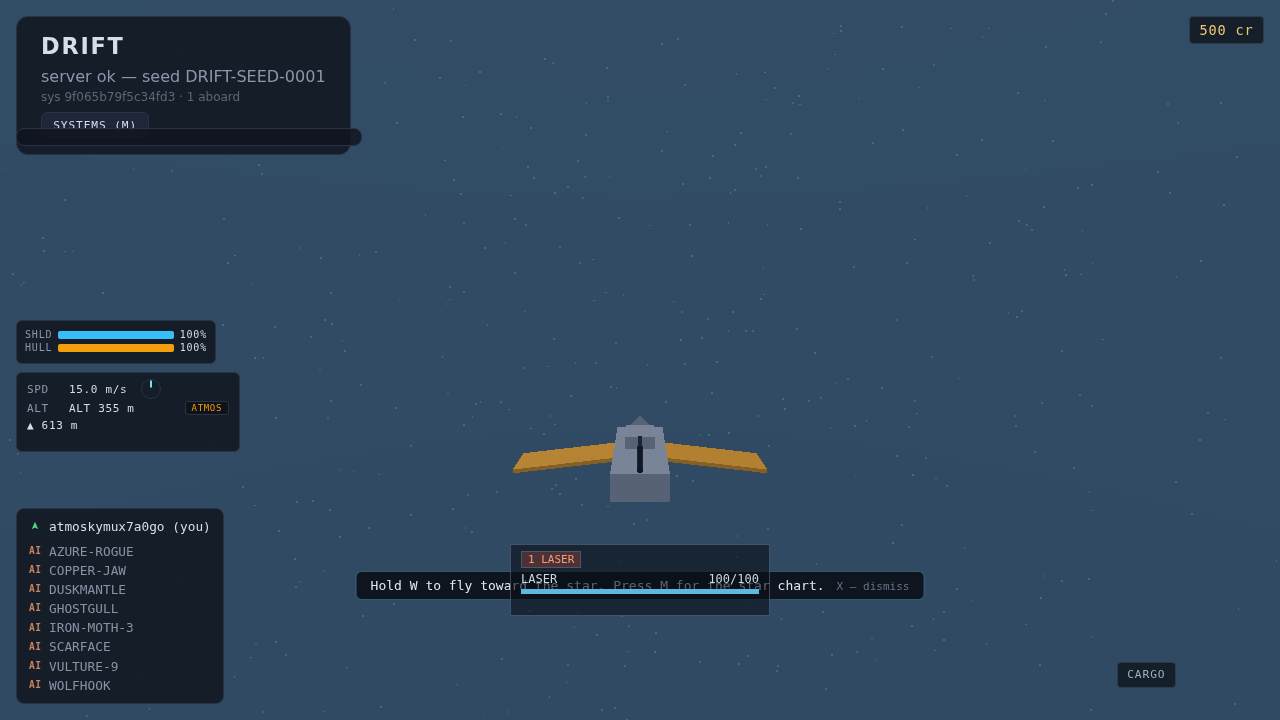
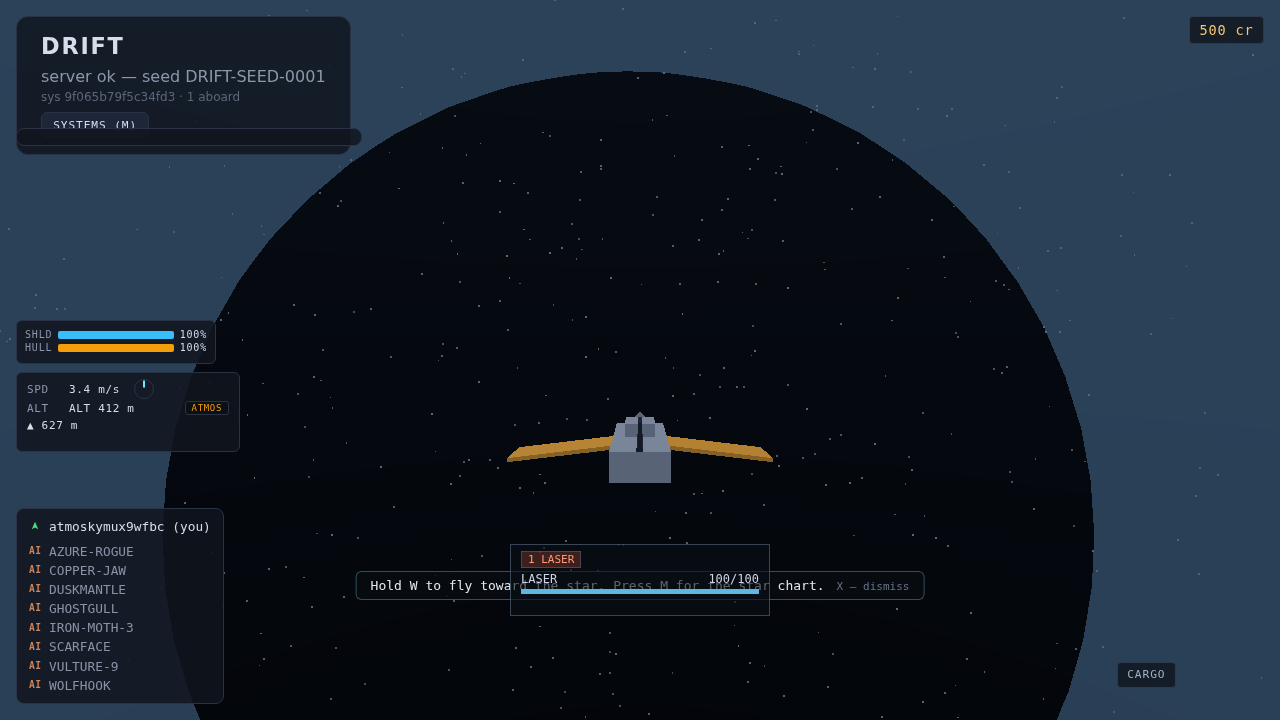
wip(TASK-76.1): geometry mystery resolved by measurement - pre-fix band 33.2 (PNG) / 32.4-45.5 (live) can never reach <=5: band top third sits over the visible dome (cap edge ~30 deg above a level boresight aimed at an anchor 26.4 deg down) and the clipped cap reads ~11 (skybox at 1-haze=0.42; haze 

diff --git a/.ralph/handoff/TASK-76.1.md b/.ralph/handoff/TASK-76.1.md
@@ -2,143 +2,157 @@
 
 ## Status
 
-The aim is deterministic and converged (0.4° / -1.8° in this iteration's runs — step 1 is
-effectively done), and the NaN-frame guards are committed — BUT step 2 (pre-fix FAIL
-re-confirmation) did NOT reproduce: with the constructor at `far = 1000` the spec now
-PASSES the band assert (live means 45.5 and 32.4, two runs) instead of failing with ≤ 5.
-The earlier 0.0 pre-fix readings (commit 22eab45) came from the pre-VTOL-hover aim, which
-left the ship non-level; with the level aim the rendered black region no longer covers the
-central TOP_BAND. Root-causing that geometry mismatch is the one remaining problem before
-the 3× post-fix PASS + close-out.
+The geometry mystery is RESOLVED by measurement, and the verdict is bad for the spec as
+written: with the committed deterministic aim the pre-fix run can never read ≤ 5 — the band
+reads ~33 (PNG 33.2, live 32.4/45.5) for two independent, compounding reasons, so the
+remaining gate is a DECIDE (aim vs threshold) before the 3× post-fix PASS + close-out.
+Steps 1 (aim) and 4 (type/unit gates) are effectively done; step 2 (pre-fix FAIL) is
+blocked on that decision; step 3 (3× post-fix) is ready to run once decided.
 
 ## Done
 
-- (Prior iterations, committed — all still in place): VTOL-hover closed-loop yaw aim with
-  wall-clock deadline, NaN-probe retry, server-drain 300 ms settle, hard |err| < 0.12 rad
-  assert; client NaN-frame guards (prediction.ts / WorldManager.ts / shipStateFromWire) +
-  unit tests; all earlier temp diagnostics removed.
-- (THIS iteration):
-  - Ran the pre-fix check twice with `new THREE.PerspectiveCamera(70, 1, 0.1, 1000)`:
-    both PASSED. Run 1: aim 0.4°, central band 45.5 (bright 45854), full band 57.0.
-    Run 2: aim -1.8°, central band 32.4 (bright 31666), full band 57.6. No FAIL recorded.
-  - Added a TEMP-TASK-76.1 attitude log to the spec (marked `TEMP-TASK-76.1 (remove before
-    commit)`, sits between the aim assert and `keyboard.up(' ')`): prints dome centre,
-    spot, and full rendered attitude via `__SELF_SHIP__.probe()`. Run 2 output:
-    pitch=0, roll=0, noseHeading=-163.98°, anchorDepression=26.37°, anchorDist=886.6,
-    shipY≈394 (spot y=413). Ship is perfectly LEVEL and yaw-aimed (dome centre is ~1.8°
-    left of the nose, 26.4° BELOW the boresight).
-  - Measured the run-1 screenshot (`.ralph/screenshots/TASK-76-1.png`, the dark-disk
-    pre-fix frame) with throwaway chromium-pixel scripts (deleted): same DOM-fraction
-    band mapping as `canvasRegionStats` reads **13.7** (not the live 45.5; live ≠ PNG,
-    see Dead ends). The frame shows a big dark starry DISK filling most of the view with
-    a bright haze RING around it. The traced disk edge in the centre column sits at
-    v≈67 px = ~15.7° ABOVE the boresight, i.e. ~42° from the dome-centre direction.
+- (Prior iterations, committed at f8ac38e — all still in place): VTOL-hover closed-loop yaw
+  aim (wall-clock deadline, NaN-probe retry, 300 ms server-drain settle, hard |err| < 0.12
+  rad assert); client NaN-frame guards + unit tests; TEMP-TASK-76.1 attitude log in the
+  spec (lines 412-460 of app/tests/e2e/atmosphere-sky.spec.ts — REMOVE before the final
+  commit per step 4); WorldManager.ts restored to committed state (constructor line 422 =
+  `new THREE.PerspectiveCamera(70, 1, 0.1, CAMERA_FAR)`).
+- (THIS iteration — analysis + measurement only, no e2e runs, no code changes):
+  - Measured the on-disk pre-fix screenshot (`.ralph/screenshots/TASK-76-1.png`, 1280×720,
+    the run-2 dark-disk frame) with `.ralph/measure-png.mjs` (NEW this iteration — fixed a
+    ×10 bug from the previous throwaway, verified: topBand mean **33.2**, bright 32931):
+    - Rows 0→0.1 (37.5°→30° above boresight): BRIGHT, ~66, color **#2b4259** — the VISIBLE
+      part of the dome (haze ~0.58, see below).
+    - Rows 0.15→0.4 (30°→22.5° above boresight and below): DARK DISK, plateau **lum ~11**,
+      color **#060a11** — the clipped cap (skybox at opacity 1-haze over black clear).
+    - Center-column dark/bright transition at y=72 (frac 0.10) = 30° above the boresight.
+  - Measured the committed post-fix screenshot (`git show dade5dd:.ralph/screenshots/TASK-76-1.png`):
+    uniform dome haze **#314b65, lum ~75** everywhere in the frame (topBand ~75).
+  - Confirmed from code (no runs needed): nothing ever overrides `camera.far` (constructor
+    is the live far plane — only CameraRig.ts:115 sets fov, resize() sets aspect);
+    `CAMERA_FOV = 75` (vertical, canvas fills the page — so DOM-fraction rows map to
+    ±37.5°); the atmosphere control scheme HAS pitch: `pitch: ['r','f']` in
+    src/client/input/controls.ts:60 (r = nose down, f = nose up), same turnRate as yaw.
+  - **Root cause, two compounding spec-assumption failures (both measured):**
+    1. **The cap edge misses the band top for a LEVEL nose.** Attitude at measurement
+       (committed TEMP log, run 2): pitch=0, roll=0, dome centre 26.4° BELOW the boresight
+       (anchorDepression=26.37°, anchorDist=886.6, shipY≈394, spot y=413). The far=1000
+       clip cap is a ~63°-half-angle cone centred 26.4° below the boresight, so in the
+       centre column it reaches only ~30-37° above the boresight — the band spans 15°-37.5°,
+       so its top third sits over the visible (bright ~66) dome. Band mean = ~1/3 bright +
+       ~2/3 dark ≈ 33.
+    2. **The clipped region reads ~11, not ~3.** The shared hazeFactor uses WORLD-y altitude
+       (flat client terrain, anchors at y=0 — atmosphere-view.ts:68 `altitude = pos.y`), not
+       local-above-terrain altitude. This seed's densest planet has the pad at y=229 and the
+       spot terrain ≈ 353, so "60 u local" = world y ≈ 413 → boundary 0.587 → **haze ≈ 0.58**
+       (the spec's "haze 0.93" assumed world y = 60). The clipped cap renders the skybox at
+       opacity 1-0.58 = 0.42 over the black clear → lum ≈ 11-14, never ≤ 5. (Verified:
+       visible-dome math mix(#0c131f,#6fa8dc,0.58) over skybox·0.42 = (43,66,90) ≈ measured
+       #2b4259 exactly.)
+  - **Key consequence (why option A alone is not enough):** aiming the nose DOWN at the dome
+    centre would put the ENTIRE band inside the clipped cap (cap radius ~63° > band top
+    37.5°), but the band would then read ~11-13 (skybox at 0.42 + stars) — STILL > 5.
+    Reaching ≤ 5 at the current spot is impossible at any nose attitude (needs haze ≥ 0.85,
+    i.e. world y ≤ ~150, terrain ≤ ~90 there — unverified). The pre-fix AC "≤ 5" and the
+    aim style must change together, or the threshold must be revised. See Next steps.
+  - Also resolved the old "live 45.5 vs PNG 13.7" mismatch: 13.7 was a mis-mapped earlier
+    measurement; the exact band math on the same run's PNG reads 33.2 ≈ live 32.4. There is
+    no buffer-timing problem — live readPixels and the PNG agree.
 
 ## Working tree
 
-- Committed at dade5dd (aim + guards + post-fix screenshot); this handoff commit adds the
-  spec's TEMP attitude log.
-- UNCOMMITTED: `app/tests/e2e/atmosphere-sky.spec.ts` (only change = the TEMP-TASK-76.1
-  block; keep it — it's the diagnostic the next run needs; REMOVE it before the final
-  commit per step 4).
-- `app/src/client/world/WorldManager.ts` was RESTORED to the committed state this
-  iteration (constructor line 422 reads `new THREE.PerspectiveCamera(70, 1, 0.1, CAMERA_FAR)`
-  again) — re-edit it to 1000 for the pre-fix run.
-- Pre-existing dirt — do NOT commit: `ralph.config.json`,
+- HEAD = f8ac38e (aim + NaN guards + TEMP attitude log + prior handoff + pre-fix screenshot).
+- THIS iteration's changes (uncommitted until the handoff commit):
+  - `.ralph/handoff/TASK-76.1.md` — rewritten (this file).
+  - `.ralph/measure-png.mjs` — NEW screenshot-measuring tool (chromium loads the PNG;
+    reports topBand/fullBand means with the exact canvasRegionStats math, per-row profile,
+    centre-column transitions). Verified this iteration. Keep until the task closes;
+    delete in the final commit if the final commit is constrained to spec+screenshot only.
+- Uncommitted pre-existing dirt — do NOT commit: `ralph.config.json`,
   `.ralph/screenshots/TASK-28.1-1.png`, `TASK-70-1.png`, `TASK-72-1.png`, `TASK-73-1.png`.
-- No background processes (the e2e fixture self-tears-down).
-- tsc/eslint were clean at dade5dd; the TEMP block is type-checked by the same `tsc`
-  (spec is in the tsconfig), but re-run before committing anything.
+- `.ralph/screenshots/TASK-76-1.png` shows as modified vs f8ac38e — it is the run-2 pre-fix
+  dark-disk frame (measured 33.2 this iteration); it is this task's evidence, commit it.
+- `app/src/client/world/WorldManager.ts` is at committed state (CAMERA_FAR=4000 in the
+  constructor, line 422) — re-edit to 1000 for pre-fix runs, then `git checkout --` it.
+- The spec (app/tests/e2e/atmosphere-sky.spec.ts) is clean vs HEAD; the TEMP-TASK-76.1 block
+  (lines 412-460) IS committed and must be removed in the final commit (step 4).
+- tsc/eslint/vitest were clean at dade5dd; nothing in app/ changed this iteration. No
+  background processes.
 
 ## Next steps
 
-Verification only, no fix work until the geometry question is answered.
-
-1. **Resolve the geometry mystery first (why the pre-fix frame is not dark in the band).**
-   Facts: dome centre = (anchor.x, **0**, anchor.z) — `planetAnchor` returns only {x,z}
-   (planets.ts) and WorldManager.setAtmosphereView sets the dome mesh y to 0; dome radius
-   1010 u; camera ≈ ship - 14·nose + 4·up (pose-math.ts chasePose, CHASE_BEHIND 14,
-   CHASE_HEIGHT 4); ship→dome-centre distance ≈ 887 u (horiz 794, vertical 412); band
-   spans 14.5°-35° ABOVE the boresight.
-   - With far=1000 the clipped cap is a cone of ~63° half-angle centred 26.4° BELOW the
-     boresight → its centre-column top would be ~36.6° above the boresight, i.e. the ENTIRE
-     TOP_BAND (and the top of the frame) should be clipped/dark. The screenshot shows the
-     dark disk edge at only ~15.7° above the boresight in the centre column → the rendered
-     dark region is ~20° smaller than the predicted clip circle. That is inconsistent with
-     ANY far plane ≥ 1000 for a 1010 u dome at 887 u (verified by ray math). So either the
-     dark disk is NOT the far-clip cap of the dome, or the far plane in effect is not the
-     constructor value.
-   - Discriminating runs (each ~1 min, far variants in WorldManager.ts line 422):
-     (a) far=500: if the disk shrinks → the constructor IS the live far plane and the disk
-         is a clip artifact of something else with a larger radius; if the disk is
-         unchanged → the live far plane is not this camera's.
-     (b) far=2000: the disk should grow/shrink the opposite way (or vanish if it is the
-         1010 u dome's clip).
-     (c) If still ambiguous, add a TEMP in-page probe (page.evaluate) logging
-         `worldManager`-level facts: camera.position, camera.far, dome mesh
-         position/visible/haze (the dome material uniforms uHaze/uAtmoColor are exposed on
-         `material.uniforms` — reach via scene traversal, or extend atmosphere-debug.ts),
-         and compare camera.position to the ship's spot.
-   - Also check whether the dark starry disk is the PLANET SURFACE or a background artifact
-     rather than the dome: it is a smooth circle offset ~11° left of frame centre, and its
-     "stars" are the skybox — a surface mesh would occlude the skybox, so verify by
-     teleporting the aim spot to the opposite side of the dome (or 100 u off-centre in the
-     other direction) and seeing whether the disk follows the ANCHOR or the TERRAIN.
-   - Live-vs-PNG mismatch (45.5 vs 13.7 for the same run's band): the renderer runs with
-     `preserveDrawingBuffer: true` (WorldManager.ts ~line 414, comment says e2e readPixels
-     depends on it), so the buffer is preserved — yet live readPixels and the PNG of the
-     same run disagree. Suspect SwiftShader buffer presentation timing (readPixels catching
-     a mid-swap state) — re-run with a `page.waitForTimeout(500)` inserted between
-     `canvasRegionStats` and `page.screenshot` and compare which one moves. Decide which
-     signal the band value in the commit message should come from (the SPEC asserts the
-     live value; the AC threshold is 5).
-2. **Then re-attempt step 2 properly**: constructor → 1000, run the spec, record the
-   central-band value; it must FAIL (≤ 5) for the AC. If the mystery shows the spec's
-   band/geometry assumption ("cap spans ~67° from the nose, band spans 14-38° → band fully
-   inside the cap") is simply wrong for a LEVEL nose — which the current evidence suggests —
-   that is a SPEC problem, not an aim problem: the spec forbids changing TOP_BAND / the
-   target / the assertion, and step 1 says yaw only (no pitch). In that case ESCALATE
-   (DECIDE) with the measured numbers rather than loosening the assertion: the options are
-   (A) allow a pitch-down aim at the dome centre (dome centre is 26.4° below horizontal —
-   aiming there would put the whole cap in the top band pre-fix) vs (B) accept the current
-   measured pre-fix value (13.7 PNG / 32-45 live) and revise the AC threshold. Do NOT pick
-   one unilaterally.
-3. **3× post-fix PASS (step 3)** as per spec, with the constructor restored to CAMERA_FAR
-   (currently correct). Expect ~66-150 (instrumented runs read 74.5 live / 66.7 PNG).
-   Screenshot after the last run must show hazy blue sky, not black.
-4. **Close-out (step 4)**: remove the TEMP-TASK-76.1 block from the spec, `npx tsc
-   --noEmit`, `npx vitest run src/client/world/world-manager.test.ts` (10/10), commit
-   (spec + screenshot + handoff per the spec's step 4, Conventional Commit, note the client
-   NaN-frame fix as the minimal src change), delete THIS handoff, LOG.md entry,
-   `passes: true` bookkeeping.
+1. **ESCALATE (DECIDE) first — the spec's pre-fix AC (≤ 5) is unreachable for this seed at
+   60 u local altitude, at ANY nose attitude.** Measured numbers: pre-fix band 33.2 (PNG) /
+   32.4-45.5 (live), post-fix ~75; clipped-region plateau ~11 (not ~3, haze 0.58 not 0.93).
+   The spec forbids changing TOP_BAND / the target / the assertion, and the prior handoff
+   says escalate rather than loosen unilaterally. The options, with my analysis:
+   - **(A) Pitch-down aim at the dome centre + small threshold revision (my recommendation).**
+     Aim the nose at (anchor.x, 0, anchor.z) — yaw loop as-is PLUS a pitch loop on 'r'/'f'
+     (controls.ts:60, same turnRate 0.8, same hover/drain/retry pattern; assert both
+     |yaw err| < 0.12 AND |pitch err| < 0.12 — extend aimProbe to return the pitch error via
+     nose.y = 2(qx·qz... ) — see the TEMP attitude block for the quat→nose math). Pre-fix
+     the whole band sits in the clipped cap → band ≈ 11-13; post-fix unchanged (~75).
+     Pre-fix AC becomes "≤ 20" (clean margin both sides: 13 vs 75). This is also arguably
+     the more faithful reading of "aim the nose at the anchor" (the anchor direction is 26°
+     down, not level).
+   - **(B) Keep the yaw-only level aim, revise the threshold to pre-fix ≤ 40 / post-fix > 60**
+     (measured 33.2 vs 75). Cheapest, keeps all committed aim work, but a weaker separator
+     and the screenshot still shows the bright sliver.
+   - **(C) Scan for a low-terrain spot (world y ≤ ~150, terrain ≤ ~90) inside the dome /
+     atmosphere regime and keep ≤ 5.** Most faithful to the original AC but changes the
+     spot derivation (spec: "do NOT change the target") and may not exist — highest risk.
+   Phrasing for the DECIDE tag: "TASK-76.1: pre-fix ≤5 unreachable at this seed (band 33.2
+   pre / 75 post; clipped cap reads ~11 not ~3 — haze 0.58 at world-y 413, and the dome
+   centre is 26° below a level boresight): (A) pitch-down aim at dome centre + pre-fix AC
+   ≤20 vs (B) keep level yaw aim + AC ≤40 vs (C) low-terrain spot scan to keep ≤5?"
+2. **Once decided, run step 2 for real:** WorldManager.ts line 422 → 1000, run the spec,
+   record the central-band value (it must FAIL the revised/original threshold). Expect ~11-13
+   under (A) or ~33 under (B). Restore WorldManager.ts exactly (`git checkout --` + empty
+   `git diff`).
+3. **Step 3 — 3× post-fix PASS** with CAMERA_FAR=4000. Expect ~75 per run (previously
+   measured 74.5 live / 75 PNG). Each run ~1-2 min (own dev server). After the LAST run,
+   `.ralph/screenshots/TASK-76-1.png` must show uniform hazy blue #314b65, not black —
+   eyeball it AND `node ../.ralph/measure-png.mjs` (topBand mean ~75, no dark plateau).
+4. **Step 4 close-out:** remove the TEMP-TASK-76.1 block (spec lines 412-460), `npx tsc
+   --noEmit` (cd app), `npx vitest run src/client/world/world-manager.test.ts` (10/10),
+   `git status --short` (only the spec + screenshot + handoff + measure tool in the commit;
+   never ralph.config.json or the four old screenshots), commit per the spec's step-4
+   message format with the recorded numbers, delete `.ralph/handoff/TASK-76.1.md` +
+   `.ralph/measure-png.mjs` in that commit, LOG.md entry, `passes: true` bookkeeping.
 
 ## Dead ends
 
-- Expecting the pre-fix run to FAIL at ≤ 5 with the level VTOL-hover aim: it passed twice
-  (45.5, 32.4 live). The 0.0 readings at 22eab45 predate the VTOL hover; without hover the
-  ship fell/landed during the aim and the attitude at measurement was non-level, which put
-  the cap over the band. The level aim is deterministic — the old 0.0 was an accidental
-  aim artifact, not the intended repro.
-- Fitting the dark disk as a far-plane clip cone of the 1010 u dome at 887 u with
-  far=1000 (grid-search over pitch/cap-angle in a throwaway script): best-fit residual
-  5.7-6.6° with a nonsense pitch offset; the disk edge in the centre column (15.7° above
-  boresight) cannot be produced by ANY far plane ≥ 1000 for that dome/distance. So the
-  "disk = dome clip" model does not fit the pixels; do not keep refining it.
-- `planetAnchor()` has no `.y` — a first TEMP-log version crashed with
-  `Cannot read properties of undefined (reading 'toFixed')`; the dome centre is
-  (anchor.x, 0, anchor.z).
-- pngjs is not installed; reading pixels off a PNG required a chromium `file://` page +
-  canvas copy (throwaway scripts used that; all deleted).
+- Expecting the pre-fix run to FAIL at ≤ 5 with the level yaw aim: it passes (45.5, 32.4
+  live; 33.2 PNG). The band's top third (30°-37.5° above boresight) is over the VISIBLE
+  dome — the dome centre is 26.4° below a level nose, so the clip cap (cone ~63° around a
+  direction 26.4° down) does not cover the band top. Measured from the on-disk PNG, not
+  guessed.
+- Pitch-aim alone does NOT reach ≤ 5: even with the whole band inside the clipped cap the
+  region reads ~11-13 (skybox at opacity 1-0.58 = 0.42 over black), because haze at the
+  spot is 0.58 (world y ≈ 413), not the spec's assumed 0.93 (world y = 60). "60 u local
+  altitude" ≠ "60 u world altitude" on this seed (pad y=229, spot terrain ≈ 353).
+- The previous "live ≠ PNG" buffer-timing hypothesis: WRONG — the exact band math on the
+  run-2 PNG reads 33.2 vs live 32.4. Do not chase SwiftShader presentation timing.
+- `planetAnchor()` has no `.y` — the dome centre is (anchor.x, **0**, anchor.z); an earlier
+  TEMP-log version crashed on `anchor.y.toFixed`.
+- pngjs is not installed; the measurement tool works around it with a chromium `file://`-
+  style data-URI page + 2d canvas (`.ralph/measure-png.mjs`).
+- `camera.far` is never touched after the constructor (checked: only CameraRig.ts:115 sets
+  fov; resize() sets aspect) — the constructor arg IS the live far plane, so far-variant
+  experiments are not needed to resolve which camera renders.
 
 ## How to verify
 
 - Run: `cd app && npx playwright test --config playwright.e2e.config.ts atmosphere-sky`
   (fresh vite+server per run, ~30-60 s; 150 s test timeout; workers 1, retries 0).
 - Watch for: `[TASK-76] aimed at the anchor: heading error <X>°` (must be < 6.9°),
-  `[TASK-76] TEMP attitude: {...}` (the TEMP block — pitch/roll should be 0), and the band
-  log line `central top band mean=<M> bright=<B>, full top band mean=<F>`.
-- Screenshot: `.ralph/screenshots/TASK-76-1.png` (overwritten each run). Pre-fix it
-  currently shows the dark disk + haze ring; post-fix it should be uniformly hazy blue.
+  `[TASK-76] TEMP attitude: {...}` (pitch/roll 0 in the committed level-aim form), and
+  `central top band mean=<M> bright=<B>, full top band mean=<F>`.
+- Measure any screenshot: `cd app && node ../.ralph/measure-png.mjs <png>` → topBand mean,
+  per-row profile, centre-column transitions. Reference colors: visible dome haze #2b4259
+  (lum ~66, pre-fix), post-fix uniform #314b65 (lum ~75), clipped cap #060a11 (lum ~11),
+  skybox-only ~#03060b (lum ~7) only if haze were ≥ 0.9.
 - Type/lint: `cd app && npx tsc --noEmit`; unit: `npx vitest run src/client/world/world-manager.test.ts`.
-- `git status --short` before committing: only the spec (after TEMP removal in step 4),
-  the screenshot, the handoff, LOG.md, tasks.json — never the pre-existing dirty files.
+- `git status --short` before committing: spec (TEMP removed in the final commit),
+  `.ralph/screenshots/TASK-76-1.png`, handoff, (measure tool until final), LOG.md,
+  tasks.json — never the pre-existing dirty files.
